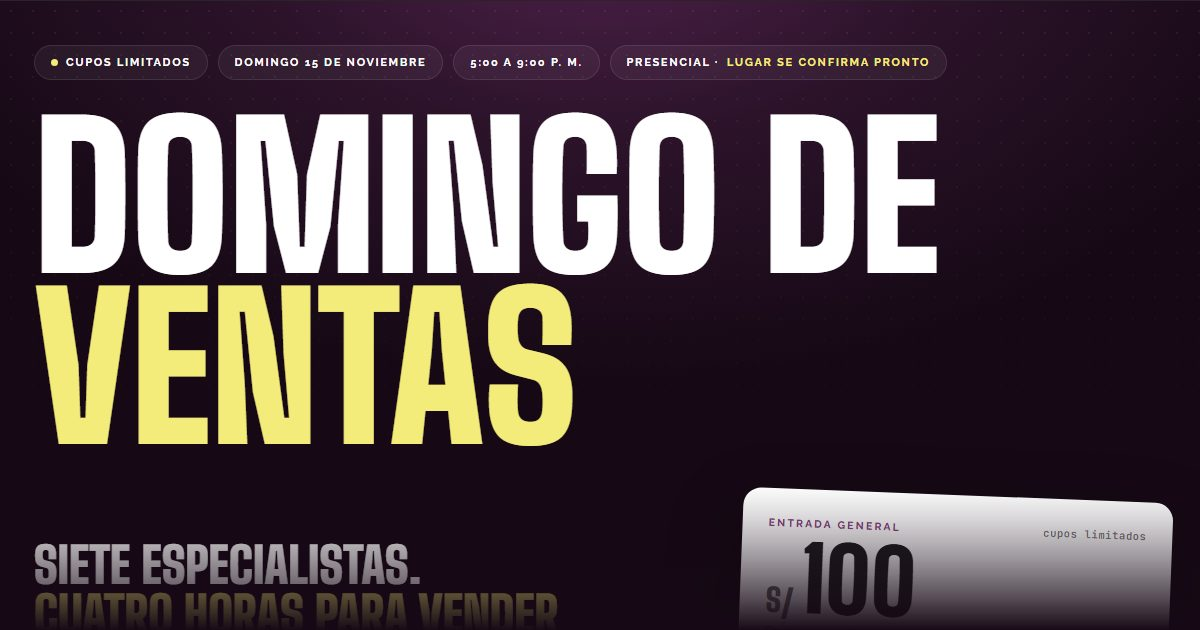
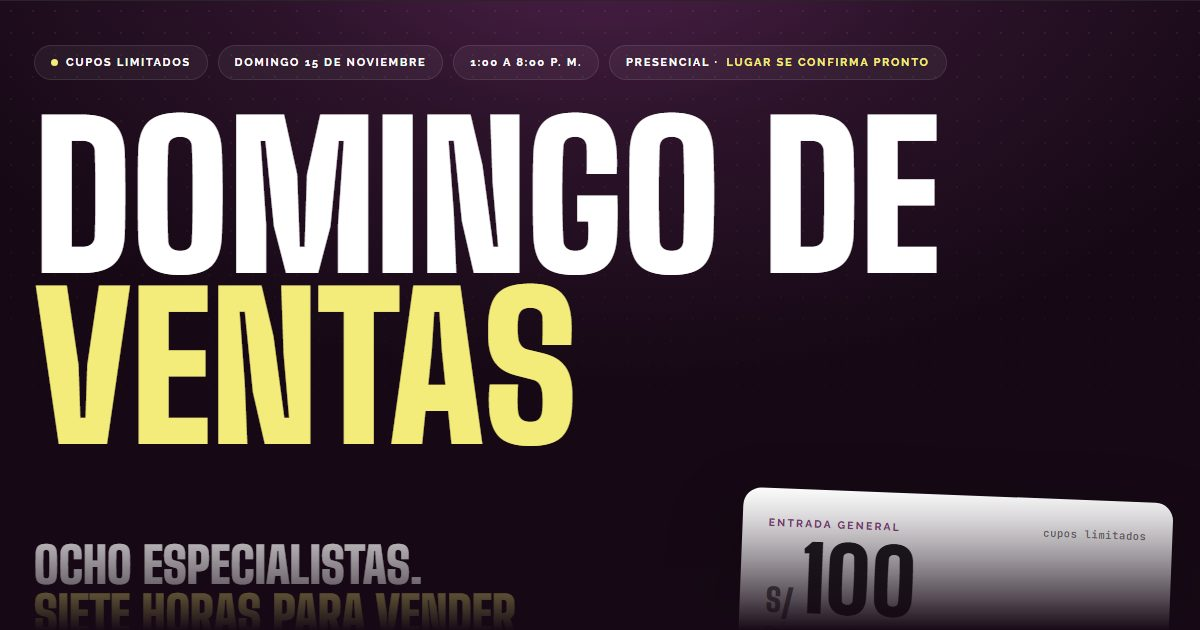
Horario de 1:00 a 8:00 p. m. y vista previa actualizada

Changed region(s): [[0.0308, 0.8444, 0.4625, 0.9952], [0.5242, 0.0905, 0.7708, 0.1206], [0.4008, 0.0905, 0.4933, 0.1206]]

diff --git a/index.html b/index.html
@@ -4,7 +4,7 @@
 <meta charset="utf-8">
 <meta name="viewport" content="width=device-width, initial-scale=1">
 <title>Domingo de Ventas · 15 de noviembre · Entrada S/ 100</title>
-<meta name="description" content="Ocho especialistas en ventas, embudos, Meta Ads, finanzas, TikTok Live e IA. Domingo 15 de noviembre, de 2:00 a 9:00 p. m. Entrada S/ 100. Cupos limitados.">
+<meta name="description" content="Ocho especialistas en ventas, embudos, Meta Ads, finanzas, TikTok Live e IA. Domingo 15 de noviembre, de 1:00 a 8:00 p. m. Entrada S/ 100. Cupos limitados.">
 <link rel="canonical" href="https://pablob-lab.github.io/super-evento-presencial/">
 <meta property="og:type" content="website"><meta property="og:locale" content="es_PE">
 <meta property="og:title" content="Domingo de Ventas · 15 de noviembre">
@@ -246,7 +246,7 @@ footer p{color:rgba(255,255,255,.5);font-size:.8rem;max-width:520px}
     <div class="pills">
       <span class="pill"><i class="dot"></i> Cupos limitados</span>
       <span class="pill">Domingo 15 de noviembre</span>
-      <span class="pill">2:00 a 9:00 p. m.</span>
+      <span class="pill">1:00 a 8:00 p. m.</span>
       <span class="pill">Presencial · <span class="loc-pending pending">lugar se confirma pronto</span></span>
     </div>
     <div class="title" aria-label="Domingo de Ventas"><span>Domingo de</span><span class="y">Ventas</span></div>
@@ -258,7 +258,7 @@ footer p{color:rgba(255,255,255,.5);font-size:.8rem;max-width:520px}
           <a class="btn" data-wa="mack" href="#entradas">Garantizar mi entrada · S/ 100</a>
           <a class="btn out" href="#programa">Ver programa</a>
         </div>
-        <p class="mini">Organiza Moisés Salazar con partners de yavendió! · <a href="https://calendar.google.com/calendar/render?action=TEMPLATE&text=Domingo+de+Ventas&dates=20261115T190000Z/20261116T020000Z&details=Evento+presencial.+Entrada+S%2F+100.+https%3A%2F%2Fpablob-lab.github.io%2Fsuper-evento-presencial%2F" target="_blank" rel="noopener">Agregar al calendario</a></p>
+        <p class="mini">Organiza Moisés Salazar con partners de yavendió! · <a href="https://calendar.google.com/calendar/render?action=TEMPLATE&text=Domingo+de+Ventas&dates=20261115T180000Z/20261116T010000Z&details=Evento+presencial.+Entrada+S%2F+100.+https%3A%2F%2Fpablob-lab.github.io%2Fsuper-evento-presencial%2F" target="_blank" rel="noopener">Agregar al calendario</a></p>
       </div>
       <div class="ticket" id="ticket-hero">
         <div class="top"><span>Entrada general</span><span>cupos limitados</span></div>
@@ -297,14 +297,14 @@ footer p{color:rgba(255,255,255,.5);font-size:.8rem;max-width:520px}
     <h2>Quién estará <em>en el escenario</em></h2>
     <p class="lead">Cada charla resuelve un pedazo de tu negocio: desde el anuncio que atrae al cliente hasta el equipo que cierra la venta.</p>
     <div class="grid">
-      <article class="card host"><i class="ph" role="img" aria-label="Moisés Salazar" style="--p:var(--img-moises)"></i><span class="tag">Anfitrión</span><h3>Moisés<br>Salazar</h3><div class="topic">Apertura del evento</div><p>Abre el evento y presenta a los ponentes. Tema de su charla por confirmar.</p><div class="time">2:00 p. m. · 45 min</div></article>
-      <article class="card"><i class="ph" role="img" aria-label="Mack Bryam" style="--p:var(--img-mack)"></i><span class="tag">Automatización</span><h3>Mack<br>Bryam</h3><div class="topic">Ventas automatizadas</div><p>Cómo sistematizar tu proceso comercial para responder rápido y vender sin tareas manuales.</p><div class="time">2:45 p. m. · 45 min</div></article>
-      <article class="card"><i class="ph" role="img" aria-label="Christian Ocampo" style="--p:var(--img-christian)"></i><span class="tag">Meta Ads</span><h3>Christian<br>Ocampo</h3><div class="topic">Embudos de venta en Meta Ads</div><p>El camino que lleva a alguien desde un anuncio en Meta hasta la compra.</p><div class="time">3:30 p. m. · 45 min</div></article>
-      <article class="card"><i class="ph" role="img" aria-label="Jefferson Walde" style="--p:var(--img-jefferson)"></i><span class="tag">Psicología</span><h3>Jefferson<br>Walde</h3><div class="topic">Psicología de ventas</div><p>Qué mueve a un cliente a decidir y cómo comunicarte para acompañarlo hasta el cierre.</p><div class="time">4:15 p. m. · 45 min</div></article>
-      <article class="card"><i class="ph" role="img" aria-label="Alexander Araujo" style="--p:var(--img-alexander)"></i><span class="tag">Finanzas</span><h3>Alexander<br>Araujo</h3><div class="topic">Finanzas inteligentes</div><p>Cómo ordenar el dinero del negocio y decidir con números.</p><div class="time">5:15 p. m. · 45 min</div></article>
-      <article class="card"><i class="ph" role="img" aria-label="Flavio Ads" style="--p:var(--img-flavio)"></i><span class="tag">TikTok Live</span><h3>Flavio<br>Ads</h3><div class="topic">Ventas por TikTok Live</div><p>Cómo vender por TikTok Live, con una experiencia de más de 200 pedidos por live.</p><div class="time">6:00 p. m. · 45 min</div></article>
-      <article class="card"><i class="ph" role="img" aria-label="Jaime Reategui" style="--p:var(--img-jaime)"></i><span class="tag">Ventas con IA</span><h3>Jaime<br>Reategui</h3><div class="topic">Ventas con Synkro AI</div><p>Ventas con inteligencia artificial en Synkro AI. Tema por confirmar.</p><div class="time">7:00 p. m. · 45 min</div></article>
-      <article class="card"><i class="ph" role="img" aria-label="Sebastian Gonzalez" style="--p:var(--img-sebastian)"></i><span class="tag">Equipos de ventas</span><h3>Sebastian<br>Gonzalez</h3><div class="topic">Cómo formar un equipo de ventas</div><p>Socio de yavendió!. Cómo formar y hacer crecer un equipo de ventas desde cero.</p><div class="time">7:45 p. m. · 45 min</div></article>
+      <article class="card host"><i class="ph" role="img" aria-label="Moisés Salazar" style="--p:var(--img-moises)"></i><span class="tag">Anfitrión</span><h3>Moisés<br>Salazar</h3><div class="topic">Apertura del evento</div><p>Abre el evento y presenta a los ponentes. Tema de su charla por confirmar.</p><div class="time">1:00 p. m. · 45 min</div></article>
+      <article class="card"><i class="ph" role="img" aria-label="Mack Bryam" style="--p:var(--img-mack)"></i><span class="tag">Automatización</span><h3>Mack<br>Bryam</h3><div class="topic">Ventas automatizadas</div><p>Cómo sistematizar tu proceso comercial para responder rápido y vender sin tareas manuales.</p><div class="time">1:45 p. m. · 45 min</div></article>
+      <article class="card"><i class="ph" role="img" aria-label="Christian Ocampo" style="--p:var(--img-christian)"></i><span class="tag">Meta Ads</span><h3>Christian<br>Ocampo</h3><div class="topic">Embudos de venta en Meta Ads</div><p>El camino que lleva a alguien desde un anuncio en Meta hasta la compra.</p><div class="time">2:30 p. m. · 45 min</div></article>
+      <article class="card"><i class="ph" role="img" aria-label="Jefferson Walde" style="--p:var(--img-jefferson)"></i><span class="tag">Psicología</span><h3>Jefferson<br>Walde</h3><div class="topic">Psicología de ventas</div><p>Qué mueve a un cliente a decidir y cómo comunicarte para acompañarlo hasta el cierre.</p><div class="time">3:15 p. m. · 45 min</div></article>
+      <article class="card"><i class="ph" role="img" aria-label="Alexander Araujo" style="--p:var(--img-alexander)"></i><span class="tag">Finanzas</span><h3>Alexander<br>Araujo</h3><div class="topic">Finanzas inteligentes</div><p>Cómo ordenar el dinero del negocio y decidir con números.</p><div class="time">4:15 p. m. · 45 min</div></article>
+      <article class="card"><i class="ph" role="img" aria-label="Flavio Ads" style="--p:var(--img-flavio)"></i><span class="tag">TikTok Live</span><h3>Flavio<br>Ads</h3><div class="topic">Ventas por TikTok Live</div><p>Cómo vender por TikTok Live, con una experiencia de más de 200 pedidos por live.</p><div class="time">5:00 p. m. · 45 min</div></article>
+      <article class="card"><i class="ph" role="img" aria-label="Jaime Reategui" style="--p:var(--img-jaime)"></i><span class="tag">Ventas con IA</span><h3>Jaime<br>Reategui</h3><div class="topic">Ventas con Synkro AI</div><p>Ventas con inteligencia artificial en Synkro AI. Tema por confirmar.</p><div class="time">6:00 p. m. · 45 min</div></article>
+      <article class="card"><i class="ph" role="img" aria-label="Sebastian Gonzalez" style="--p:var(--img-sebastian)"></i><span class="tag">Equipos de ventas</span><h3>Sebastian<br>Gonzalez</h3><div class="topic">Cómo formar un equipo de ventas</div><p>Socio de yavendió!. Cómo formar y hacer crecer un equipo de ventas desde cero.</p><div class="time">6:45 p. m. · 45 min</div></article>
 
     </div>
     <p class="note">Horarios tentativos. Los temas de las charlas de Jaime Reategui y de Moisés Salazar están por confirmar.</p>
@@ -313,7 +313,7 @@ footer p{color:rgba(255,255,255,.5);font-size:.8rem;max-width:520px}
 
 <section class="stats">
   <div class="wrap rv">
-    <div><b>7<small>h</small></b><span>de contenido, de 2:00 a 9:00 p. m.</span></div>
+    <div><b>7<small>h</small></b><span>de contenido, de 1:00 a 8:00 p. m.</span></div>
     <div><b>8</b><span>ponencias de 45 minutos cada una</span></div>
     <div><b>30<small>min</small></b><span>de networking al cierre, más 2 breaks</span></div>
     <div><b><small>S/</small>100</b><span>la entrada, por persona</span></div>
@@ -349,20 +349,20 @@ footer p{color:rgba(255,255,255,.5);font-size:.8rem;max-width:520px}
 <section class="prog-sec" id="programa">
   <div class="wrap rv">
     <span class="kicker">Programa</span>
-    <h2>7 horas, <em>de 2 a 9 p. m.</em></h2>
+    <h2>7 horas, <em>de 1 a 8 p. m.</em></h2>
     <p class="lead">Dos breaks y networking al final. Horarios tentativos: los organizadores confirman el programa final.</p>
     <div class="prog">
-      <div class="row "><div class="t">2:00 <i>a</i> 2:45<small>p. m.</small></div><div class="m"><i class="ph" role="img" aria-label="Moisés Salazar, anfitrión" style="--p:var(--img-moises)"></i><div><h4>Apertura del evento</h4><div class="s">Moisés Salazar, anfitrión</div></div></div><div class="d">45 min</div></div>
-      <div class="row "><div class="t">2:45 <i>a</i> 3:30<small>p. m.</small></div><div class="m"><i class="ph" role="img" aria-label="Mack Bryam" style="--p:var(--img-mack)"></i><div><h4>Ventas automatizadas</h4><div class="s">Mack Bryam</div></div></div><div class="d">45 min</div></div>
-      <div class="row "><div class="t">3:30 <i>a</i> 4:15<small>p. m.</small></div><div class="m"><i class="ph" role="img" aria-label="Christian Ocampo" style="--p:var(--img-christian)"></i><div><h4>Embudos de venta en Meta Ads</h4><div class="s">Christian Ocampo</div></div></div><div class="d">45 min</div></div>
-      <div class="row "><div class="t">4:15 <i>a</i> 5:00<small>p. m.</small></div><div class="m"><i class="ph" role="img" aria-label="Jefferson Walde" style="--p:var(--img-jefferson)"></i><div><h4>Psicología de ventas</h4><div class="s">Jefferson Walde</div></div></div><div class="d">45 min</div></div>
-      <div class="row soft"><div class="t">5:00 <i>a</i> 5:15<small>p. m.</small></div><div class="m"><div><h4>Break y networking</h4></div></div><div class="d">15 min</div></div>
-      <div class="row "><div class="t">5:15 <i>a</i> 6:00<small>p. m.</small></div><div class="m"><i class="ph" role="img" aria-label="Alexander Araujo" style="--p:var(--img-alexander)"></i><div><h4>Finanzas inteligentes</h4><div class="s">Alexander Araujo</div></div></div><div class="d">45 min</div></div>
-      <div class="row "><div class="t">6:00 <i>a</i> 6:45<small>p. m.</small></div><div class="m"><i class="ph" role="img" aria-label="Flavio Ads" style="--p:var(--img-flavio)"></i><div><h4>Ventas por TikTok Live</h4><div class="s">Flavio Ads</div></div></div><div class="d">45 min</div></div>
-      <div class="row soft"><div class="t">6:45 <i>a</i> 7:00<small>p. m.</small></div><div class="m"><div><h4>Break y networking</h4></div></div><div class="d">15 min</div></div>
-      <div class="row "><div class="t">7:00 <i>a</i> 7:45<small>p. m.</small></div><div class="m"><i class="ph" role="img" aria-label="Jaime Reategui, Synkro AI" style="--p:var(--img-jaime)"></i><div><h4>Ventas con Synkro AI</h4><div class="s">Jaime Reategui, Synkro AI</div></div></div><div class="d">45 min</div></div>
-      <div class="row hl"><div class="t">7:45 <i>a</i> 8:30<small>p. m.</small></div><div class="m"><i class="ph" role="img" aria-label="Sebastian Gonzalez, Socio de yavendió!" style="--p:var(--img-sebastian)"></i><div><h4>Cómo formar un equipo de ventas</h4><div class="s">Sebastian Gonzalez, Socio de yavendió!</div></div></div><div class="d">45 min</div></div>
-      <div class="row soft"><div class="t">8:30 <i>a</i> 9:00<small>p. m.</small></div><div class="m"><div><h4>Networking y cierre</h4></div></div><div class="d">30 min</div></div>
+      <div class="row "><div class="t">1:00 <i>a</i> 1:45<small>p. m.</small></div><div class="m"><i class="ph" role="img" aria-label="Moisés Salazar, anfitrión" style="--p:var(--img-moises)"></i><div><h4>Apertura del evento</h4><div class="s">Moisés Salazar, anfitrión</div></div></div><div class="d">45 min</div></div>
+      <div class="row "><div class="t">1:45 <i>a</i> 2:30<small>p. m.</small></div><div class="m"><i class="ph" role="img" aria-label="Mack Bryam" style="--p:var(--img-mack)"></i><div><h4>Ventas automatizadas</h4><div class="s">Mack Bryam</div></div></div><div class="d">45 min</div></div>
+      <div class="row "><div class="t">2:30 <i>a</i> 3:15<small>p. m.</small></div><div class="m"><i class="ph" role="img" aria-label="Christian Ocampo" style="--p:var(--img-christian)"></i><div><h4>Embudos de venta en Meta Ads</h4><div class="s">Christian Ocampo</div></div></div><div class="d">45 min</div></div>
+      <div class="row "><div class="t">3:15 <i>a</i> 4:00<small>p. m.</small></div><div class="m"><i class="ph" role="img" aria-label="Jefferson Walde" style="--p:var(--img-jefferson)"></i><div><h4>Psicología de ventas</h4><div class="s">Jefferson Walde</div></div></div><div class="d">45 min</div></div>
+      <div class="row soft"><div class="t">4:00 <i>a</i> 4:15<small>p. m.</small></div><div class="m"><div><h4>Break y networking</h4></div></div><div class="d">15 min</div></div>
+      <div class="row "><div class="t">4:15 <i>a</i> 5:00<small>p. m.</small></div><div class="m"><i class="ph" role="img" aria-label="Alexander Araujo" style="--p:var(--img-alexander)"></i><div><h4>Finanzas inteligentes</h4><div class="s">Alexander Araujo</div></div></div><div class="d">45 min</div></div>
+      <div class="row "><div class="t">5:00 <i>a</i> 5:45<small>p. m.</small></div><div class="m"><i class="ph" role="img" aria-label="Flavio Ads" style="--p:var(--img-flavio)"></i><div><h4>Ventas por TikTok Live</h4><div class="s">Flavio Ads</div></div></div><div class="d">45 min</div></div>
+      <div class="row soft"><div class="t">5:45 <i>a</i> 6:00<small>p. m.</small></div><div class="m"><div><h4>Break y networking</h4></div></div><div class="d">15 min</div></div>
+      <div class="row "><div class="t">6:00 <i>a</i> 6:45<small>p. m.</small></div><div class="m"><i class="ph" role="img" aria-label="Jaime Reategui, Synkro AI" style="--p:var(--img-jaime)"></i><div><h4>Ventas con Synkro AI</h4><div class="s">Jaime Reategui, Synkro AI</div></div></div><div class="d">45 min</div></div>
+      <div class="row hl"><div class="t">6:45 <i>a</i> 7:30<small>p. m.</small></div><div class="m"><i class="ph" role="img" aria-label="Sebastian Gonzalez, Socio de yavendió!" style="--p:var(--img-sebastian)"></i><div><h4>Cómo formar un equipo de ventas</h4><div class="s">Sebastian Gonzalez, Socio de yavendió!</div></div></div><div class="d">45 min</div></div>
+      <div class="row soft"><div class="t">7:30 <i>a</i> 8:00<small>p. m.</small></div><div class="m"><div><h4>Networking y cierre</h4></div></div><div class="d">30 min</div></div>
 
     </div>
   </div>
@@ -375,7 +375,7 @@ footer p{color:rgba(255,255,255,.5);font-size:.8rem;max-width:520px}
     <p class="lead">Los cupos son limitados. Escríbele a Mack o a Moisés por WhatsApp y te reservan tu lugar. El pago es por Yape.</p>
     <div class="tix-grid">
       <div class="ticket">
-        <div class="top"><span>Entrada general</span><span>15 nov · 2 p. m.</span></div>
+        <div class="top"><span>Entrada general</span><span>15 nov · 1 p. m.</span></div>
         <div class="price"><small>S/</small>100</div>
         <div class="sub">Por persona. Presencial. Pago por Yape.</div>
         <div class="perf"></div>
@@ -399,7 +399,7 @@ footer p{color:rgba(255,255,255,.5);font-size:.8rem;max-width:520px}
 <section class="place">
   <div class="wrap rv">
     <div><span class="kicker" style="color:var(--plum100)">Lugar</span><h2>Presencial, <em class="loc-pending">se confirma pronto</em></h2>
-    <p>Domingo 15 de noviembre, de 2:00 a 9:00 p. m. Apenas se confirme la dirección, la publicamos acá.</p></div>
+    <p>Domingo 15 de noviembre, de 1:00 a 8:00 p. m. Apenas se confirme la dirección, la publicamos acá.</p></div>
   </div>
 </section>
 
@@ -408,7 +408,7 @@ footer p{color:rgba(255,255,255,.5);font-size:.8rem;max-width:520px}
     <span class="kicker">Preguntas frecuentes</span>
     <h2>Lo que <em>más preguntan</em></h2>
     <div class="faq-wrap">
-      <details><summary>¿Cuándo y a qué hora es?</summary><p>El domingo 15 de noviembre, de 2:00 p. m. a 9:00 p. m.</p></details>
+      <details><summary>¿Cuándo y a qué hora es?</summary><p>El domingo 15 de noviembre, de 1:00 p. m. a 8:00 p. m.</p></details>
       <details><summary>¿Dónde se realiza?</summary><p>Es presencial. La dirección se confirma pronto y la publicamos en esta página.</p></details>
       <details><summary>¿Cuánto cuesta?</summary><p>La entrada cuesta S/ 100 por persona.</p></details>
       <details><summary>¿Cómo pago mi entrada?</summary><p>Pagas por Yape a Mack o a Moisés. Escríbele a cualquiera de los dos por WhatsApp desde los botones de esta página, te confirman el número de Yape y te reservan tu lugar.</p></details>
@@ -431,7 +431,7 @@ footer p{color:rgba(255,255,255,.5);font-size:.8rem;max-width:520px}
 <script>
 const io=new IntersectionObserver(e=>e.forEach(x=>{if(x.isIntersecting){x.target.classList.add('in');io.unobserve(x.target)}}),{threshold:.08});
 document.querySelectorAll('.rv').forEach(el=>io.observe(el));
-const T=new Date('2026-11-15T14:00:00-05:00');
+const T=new Date('2026-11-15T13:00:00-05:00');
 function tick(){const d=T-Date.now();if(d<=0){document.getElementById('count').style.display='none';return}
 cd.textContent=Math.floor(d/864e5);ch.textContent=Math.floor(d%864e5/36e5);cm.textContent=Math.floor(d%36e5/6e4)}
 tick();setInterval(tick,30000);
@@ -446,7 +446,7 @@ const wa=(n,t)=>`https://wa.me/${n}?text=${encodeURIComponent(t||MSG)}`;
 let turno='mack';try{turno=localStorage.getItem('wa-turno')||(Math.random()<.5?'mack':'moises');localStorage.setItem('wa-turno',turno)}catch(e){}
 if(!CONTACTS[turno])turno='mack';
 document.querySelectorAll('[data-wa]').forEach(a=>{const k=a.dataset.wa==='auto'?turno:a.dataset.wa;a.href=wa(CONTACTS[k]);a.target='_blank';a.rel='noopener'});
-document.getElementById('share').href='https://wa.me/?text='+encodeURIComponent('Mira este evento: Domingo de Ventas, domingo 15 de noviembre, 2 a 9 p. m. Entrada S/ 100. https://pablob-lab.github.io/super-evento-presencial/');
+document.getElementById('share').href='https://wa.me/?text='+encodeURIComponent('Mira este evento: Domingo de Ventas, domingo 15 de noviembre, 1 a 8 p. m. Entrada S/ 100. https://pablob-lab.github.io/super-evento-presencial/');
 document.getElementById('share').target='_blank';
 </script>
 </body>
